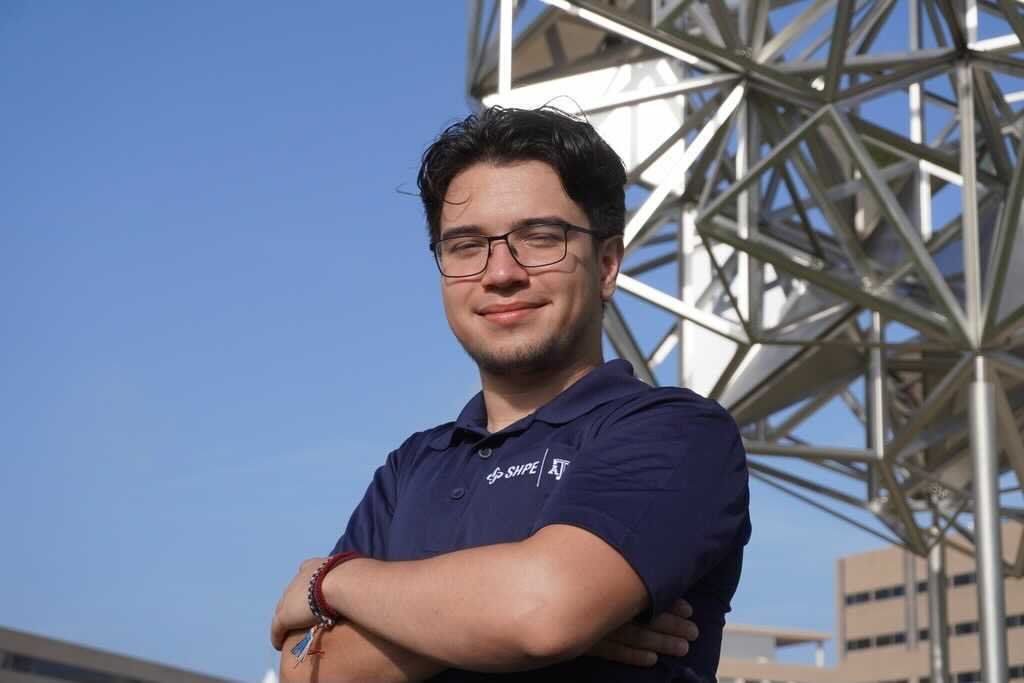
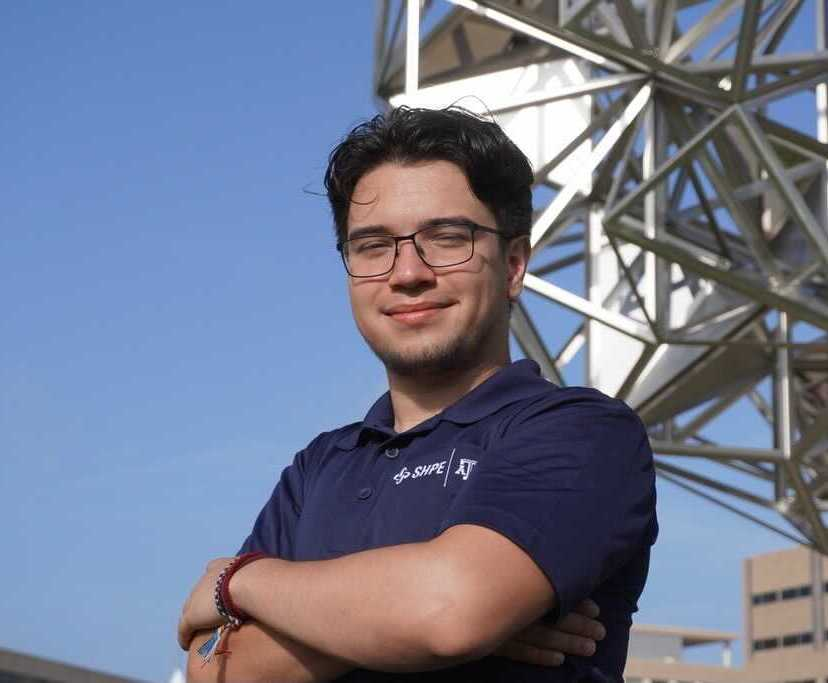
Updated officer pictures

diff --git a/eboard.html b/eboard.html
@@ -98,7 +98,7 @@
     <div class="card mb-3">
       <div class="row no-gutters">
         <div class="vertCent col-lg-4 col-md-12">
-          <img src="pictures/joshua_trans.png" class="card-img img-fluid eboardcard">
+          <img src="21-22_Officer_Pics/joshua_.jpg" class="card-img img-fluid eboardcard">
         </div>
         <div class="col-lg-8 col-md-12">
           <div class="card-body eInfo">
@@ -131,7 +131,7 @@
     <div class="card mb-3">
       <div class="row no-gutters">
         <div class="vertCent col-lg-4 col-md-12">
-          <img src="pictures/elizabeth_trans.png" class="card-img img-fluid eboardcard">
+          <img src="21-22_Officer_Pics/elizabeth_.jpg" class="card-img img-fluid eboardcard">
         </div>
         <div class="col-lg-8 col-md-12">
           <div class="card-body eInfo">
@@ -158,7 +158,7 @@
     <div class="card mb-3">
       <div class="row no-gutters">
         <div class="vertCent col-lg-4 col-md-12">
-          <img src="pictures/jennifer_trans.png" class="card-img img-fluid eboardcard">
+          <img src="21-22_Officer_Pics/jenny_.jpg" class="card-img img-fluid eboardcard">
         </div>
         <div class="col-lg-8 col-md-12">
           <div class="card-body eInfo">
@@ -184,7 +184,7 @@
     <div class="card mb-3">
       <div class="row no-gutters">
         <div class="vertCent col-lg-4 col-md-12">
-          <div class="tester-img"><img src="pictures/juliette_trans.png" class="card-img img-fluid eboardcard"></div>
+          <div class="tester-img"><img src="21-22_Officer_Pics/juliette_.jpg" class="card-img img-fluid eboardcard"></div>
         </div>
         <div class="col-lg-8 col-md-12">
           <div class="card-body eInfo">
@@ -209,7 +209,7 @@
     <div class="card mb-3">
       <div class="row no-gutters">
         <div class="vertCent col-lg-4 col-md-12">
-          <img src="pictures/aimee_trans.png" class="card-img img-fluid eboardcard">
+          <img src="21-22_Officer_Pics/aimee_.jpg" class="card-img img-fluid eboardcard">
         </div>
         <div class="col-lg-8 col-md-12">
           <div class="card-body eInfo">
@@ -235,7 +235,7 @@
     <div class="card mb-3">
       <div class="row no-gutters">
         <div class="vertCent col-lg-4 col-md-12">
-          <img src="pictures/adolio_trans.png" class=" card-img img-fluid eboardcard">
+          <img src="21-22_Officer_Pics/adolio_.jpg" class=" card-img img-fluid eboardcard">
         </div>
         <div class="col-lg-8 col-md-12">
           <div class="card-body eInfo">
@@ -263,7 +263,7 @@
     <div class="card mb-3">
       <div class="row no-gutters">
         <div class="vertCent col-lg-4 col-md-12">
-          <img src="pictures/zephira_trans.png" class="card-img img-fluid eboardcard">
+          <img src="21-22_Officer_Pics/zephira_.jpg" class="card-img img-fluid eboardcard">
         </div>
         <div class="col-lg-8 col-md-12">
           <div class="card-body eInfo">
@@ -290,7 +290,7 @@
     <div class="card mb-3">
       <div class="row no-gutters">
         <div class="vertCent col-lg-4 col-md-12">
-          <img src="pictures/eddie_trans.png" class="card-img img-fluid eboardcard">
+          <img src="21-22_Officer_Pics/eddie_.jpg" class="card-img img-fluid eboardcard">
         </div>
         <div class="col-lg-8 col-md-12">
           <div class="card-body eInfo">
@@ -322,7 +322,7 @@
     <div class="card mb-3">
       <div class="row no-gutters">
         <div class="vertCent col-lg-4 col-md-12">
-          <img src="pictures/jonathan_trans.png" class="card-img img-fluid eboardcard">
+          <img src="21-22_Officer_Pics/jonathan_.jpg" class="card-img img-fluid eboardcard">
         </div>
         <div class="col-lg-8 col-md-12">
           <div class="card-body eInfo">

diff --git a/index.html b/index.html
@@ -178,7 +178,7 @@
         <!--Row with Excutive Board and Calendar cards-->
         <div class="row">
             <div class="col-md-6">
-                <img src="pictures/eboard.jpg" class="img-fluid mb-2">
+                <img src="21-22_Officer_Pics/officers.jpg" class="img-fluid mb-2">
                 <h3 class="text-left my-1"><strong>Executive Board</strong></h3>
                 <div class="text-left mb-1">Get to know our 2021-2022 Officers</div>
                 <a href="eboard.html" class="btn white-text float-left" role="button">Learn More</a>
